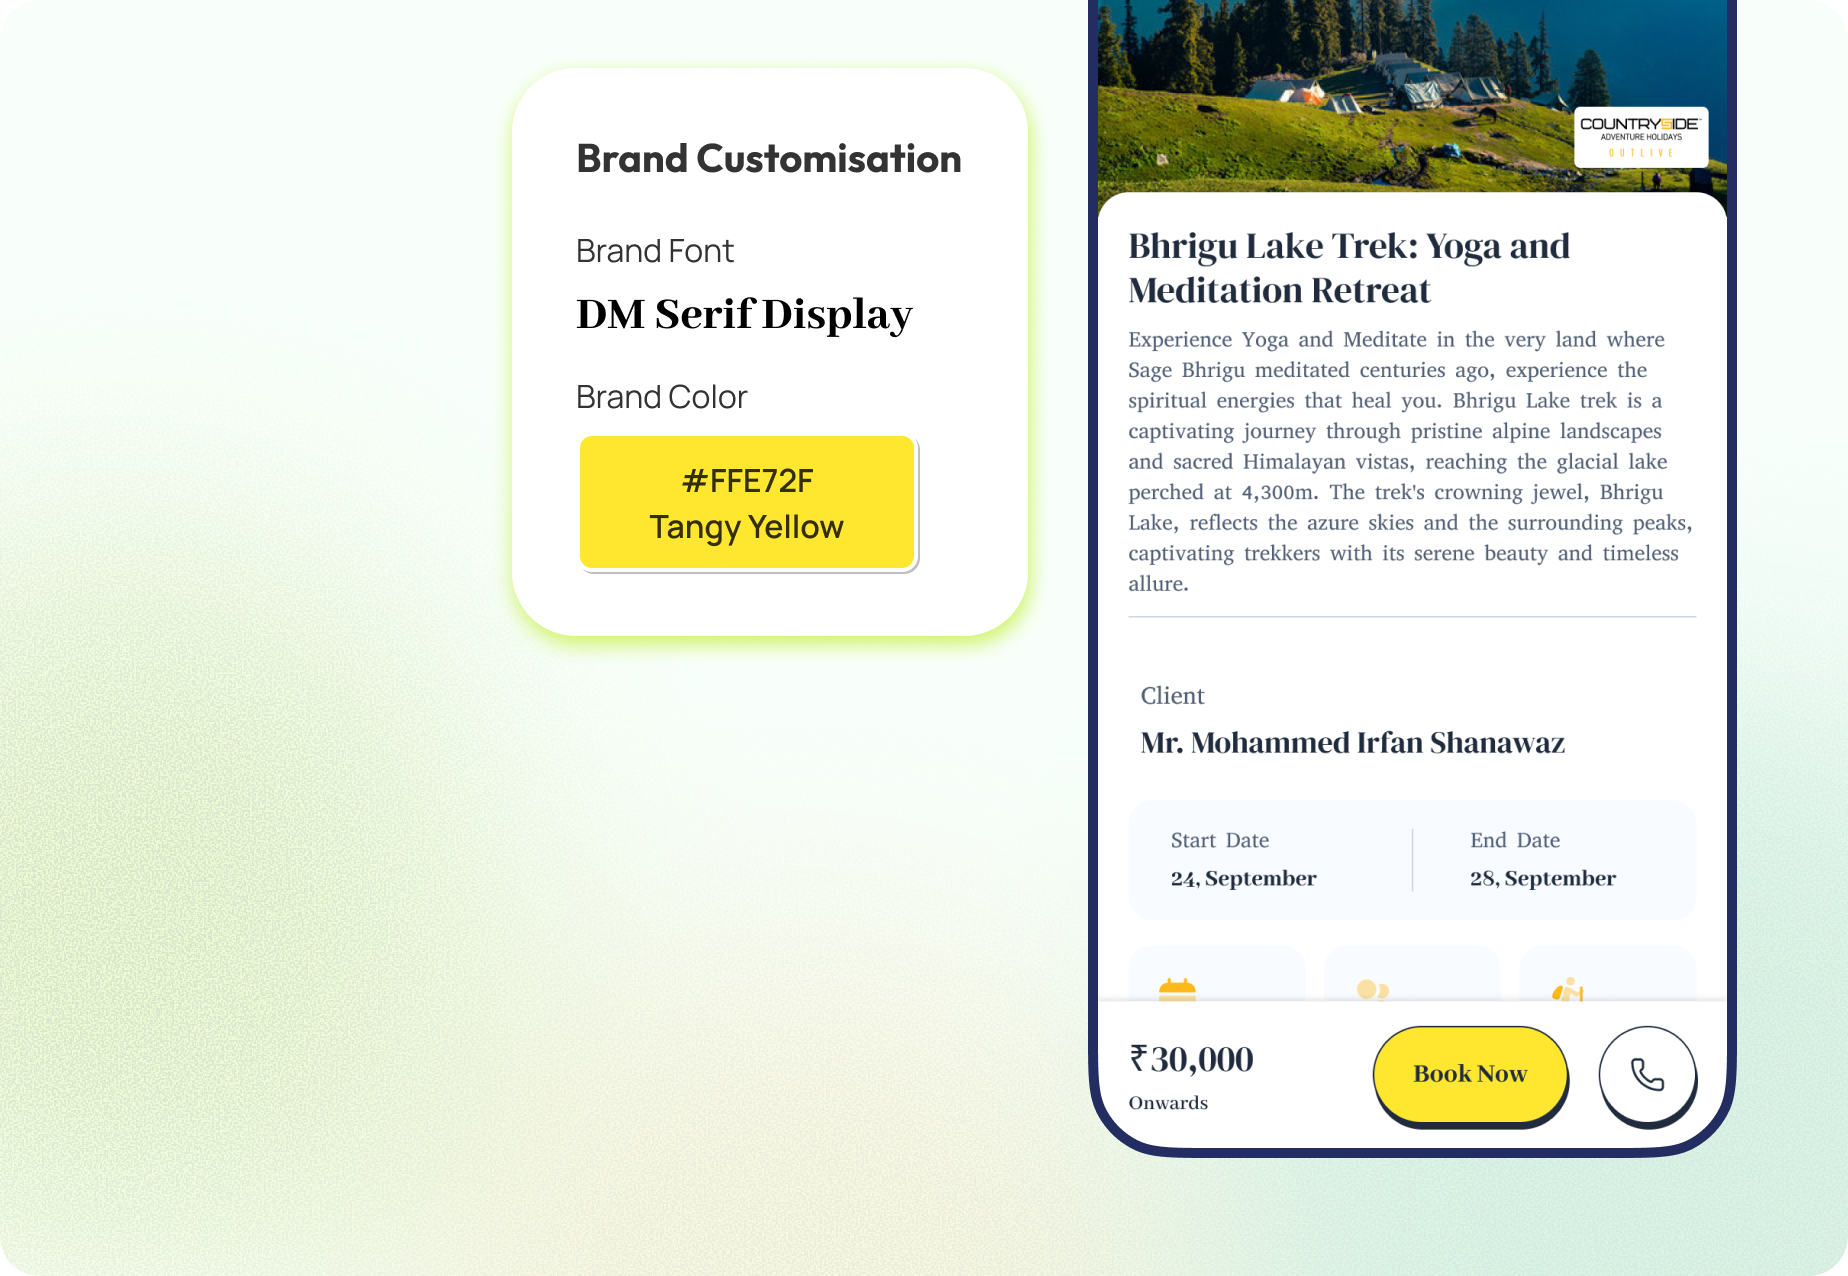
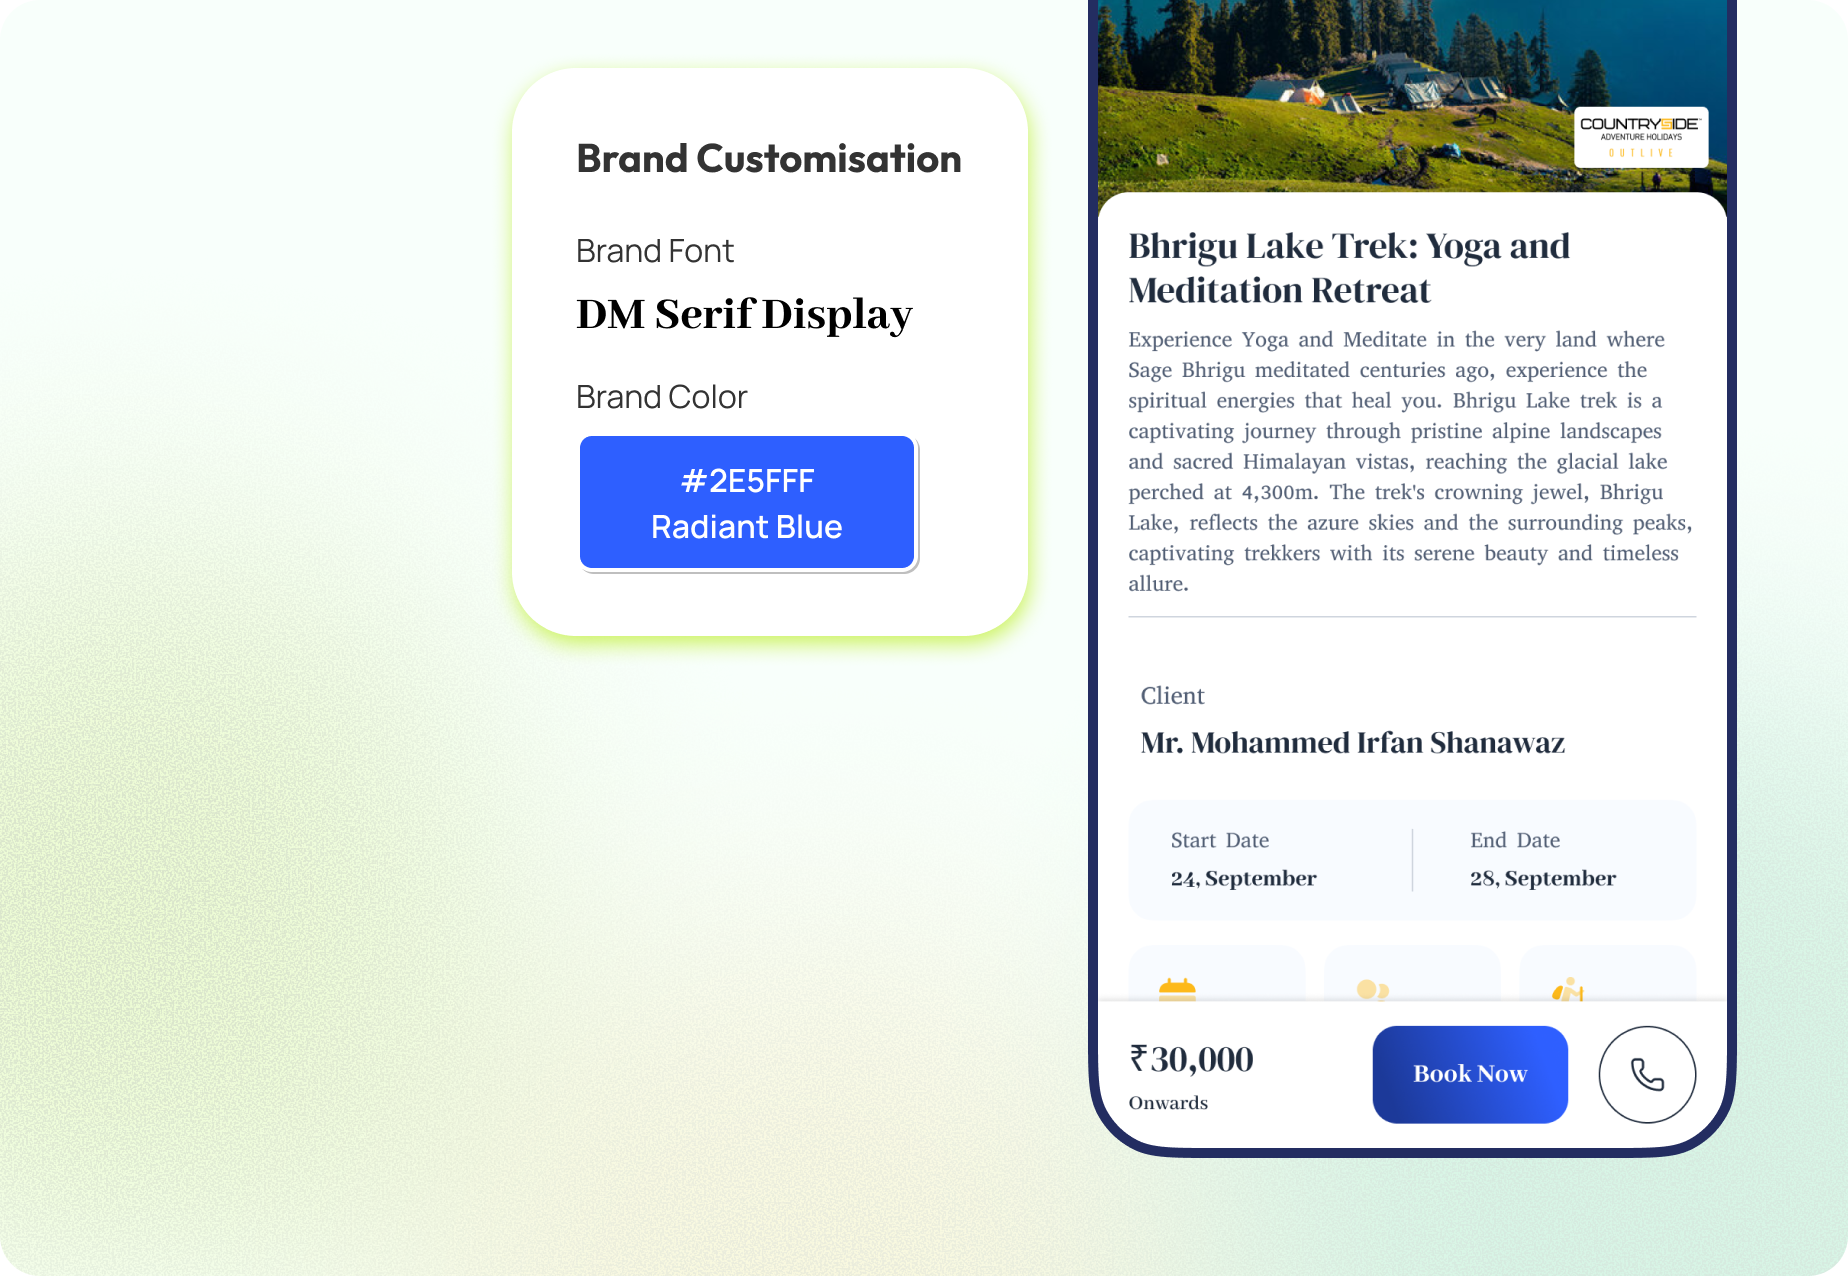
Update responsive landing sections

Changed region(s): [[0.3084, 0.3362, 0.4935, 0.4585], [0.7403, 0.7947, 0.9253, 0.8864]]

diff --git a/components/landing/prompt-demo-section.tsx b/components/landing/prompt-demo-section.tsx
@@ -1,8 +1,7 @@
 "use client";
 
-import { FileText, Globe, Mic, Zap } from "lucide-react";
+import { Mic } from "lucide-react";
 import Image from "next/image";
-import type { ComponentType } from "react";
 import { useEffect, useRef, useState } from "react";
 import { cn } from "@/lib/utils";
 
@@ -11,11 +10,9 @@ const PROMPT_TEXT =
 
 const TYPE_INTERVAL_MS = 30;
 const GENERATING_DURATION_MS = 4200;
-const LINK_PREVIEW_URL = "https://tours.outist.app/s/qaWXDawni?v=04Us-";
-const PDF_PREVIEW_URL = "";
+const LINK_PREVIEW_URL = "https://tours.outist.app/s/qaWXDawni?v=Cy0GN";
 
 type DemoPhase = "idle" | "recording" | "generating" | "complete";
-type OutputType = "link" | "pdf";
 
 export function PromptDemoSection() {
   const sectionRef = useRef<HTMLElement | null>(null);
@@ -203,99 +200,17 @@ function StatusText({ phase }: { phase: DemoPhase }) {
 }
 
 function GeneratedProposalFrame() {
-  const [outputType, setOutputType] = useState<OutputType>("link");
-  const isPdf = outputType === "pdf";
-  const previewUrl = isPdf ? PDF_PREVIEW_URL : LINK_PREVIEW_URL;
-
   return (
     <div className="flex w-full flex-col items-start gap-[25px]">
-      <div className="flex w-full flex-col gap-4 md:flex-row md:items-center md:justify-between">
-        <div className="flex w-full min-w-0 items-center gap-2 text-sherpa-ink md:w-[262px]">
-          <Zap aria-hidden="true" className="size-5 fill-[#16c9e8] text-[#16c9e8]" strokeWidth={2.5} />
-          <p className="text-[16px] font-normal leading-[1.45] sm:text-[17px]">
-            Generated in less than a min
-          </p>
-        </div>
-
-        <div className="flex flex-wrap items-center gap-4 pb-2 pr-3 md:gap-6 md:pr-4">
-          <SegmentedControl
-            items={[
-              { icon: Globe, label: "Link", value: "link", active: outputType === "link" },
-              { icon: FileText, label: "PDF", value: "pdf", active: outputType === "pdf" },
-            ]}
-            onSelect={(value) => setOutputType(value as OutputType)}
+      <div className="flex h-[460px] w-full items-center justify-center rounded-[20px] border border-[#cfd5de] bg-[#f0f3f7] px-3 py-3 sm:h-[520px] sm:px-4 lg:h-[638px]">
+        <div className="relative h-full w-full overflow-hidden rounded-[16px] bg-white shadow-[0_1px_0_rgba(32,44,61,0.05)] transition-all duration-500 ease-sherpa">
+          <iframe
+            title="Generated proposal link preview"
+            src={LINK_PREVIEW_URL}
+            className="h-full w-full border-0 bg-white"
           />
         </div>
       </div>
-
-      <div className="flex h-[460px] w-full items-center justify-center rounded-[20px] border border-[#cfd5de] bg-[#f0f3f7] px-3 py-3 sm:h-[520px] sm:px-4 lg:h-[638px]">
-        <div className="relative h-full w-full overflow-hidden rounded-[16px] bg-white shadow-[0_1px_0_rgba(32,44,61,0.05)] transition-all duration-500 ease-sherpa">
-          {previewUrl ? (
-            <iframe
-              key={outputType}
-              title={isPdf ? "Generated proposal PDF" : "Generated proposal link preview"}
-              src={previewUrl}
-              className="h-full w-full border-0 bg-white"
-            />
-          ) : (
-            <div className="flex h-full w-full items-center justify-center">
-              <p className="text-center text-base font-medium leading-[1.25] text-black">
-                {isPdf ? "PDF preview link pending" : "iframe"}
-              </p>
-            </div>
-          )}
-        </div>
-      </div>
-    </div>
-  );
-}
-
-type SegmentItem = {
-  active: boolean;
-  icon: ComponentType<{ className?: string; strokeWidth?: number; "aria-hidden"?: boolean }>;
-  label: string;
-  value: string;
-};
-
-function SegmentedControl({
-  disabled = false,
-  items,
-  onSelect,
-}: {
-  disabled?: boolean;
-  items: SegmentItem[];
-  onSelect: (value: string) => void;
-}) {
-  return (
-    <div
-      className={cn(
-        "flex shrink-0 items-center rounded-sherpa-pill border border-sherpa-ink bg-white p-1 shadow-[1px_2px_0_#202c3d] transition-opacity duration-medium",
-        disabled && "pointer-events-none opacity-40",
-      )}
-      aria-disabled={disabled}
-    >
-      {items.map((item, index) => {
-        const Icon = item.icon;
-
-        return (
-          <button
-            type="button"
-            key={item.label}
-            onClick={() => onSelect(item.value)}
-            aria-pressed={item.active}
-            disabled={disabled}
-            className={cn(
-              "flex items-center justify-center gap-2 px-4 py-3 text-[14px] font-medium leading-[1.45] transition-colors duration-fast focus-visible:outline-none focus-visible:ring-2 focus-visible:ring-sherpa-ink/25",
-              item.active ? "bg-[#dfe3e8] text-sherpa-ink" : "text-sherpa-muted",
-              index === 0 && "rounded-bl-sherpa-pill rounded-br-[4px] rounded-tl-sherpa-pill rounded-tr-[4px]",
-              index === items.length - 1 && "rounded-bl-[4px] rounded-br-sherpa-pill rounded-tl-[4px] rounded-tr-sherpa-pill",
-            )}
-          >
-            <Icon aria-hidden className="size-5" strokeWidth={2} />
-            <span className="truncate">{item.label}</span>
-          </button>
-        );
-      })}
     </div>
   );
 }

diff --git a/components/landing/footer-section.tsx b/components/landing/footer-section.tsx
@@ -66,34 +66,37 @@ export function FooterSection() {
           </div>
         </div>
 
-        <div className="flex w-full max-w-[1011px] flex-col items-center justify-center border-t border-white/20 pt-12 sm:pt-[60px]">
-          <div className="flex flex-col items-center justify-center gap-6 sm:flex-row">
+        <div className="flex w-full max-w-[1011px] flex-col gap-10 border-t border-white/20 pt-12 sm:pt-[60px] lg:flex-row lg:items-center lg:justify-between">
+          <div className="flex flex-col items-center justify-center gap-6 sm:flex-row lg:justify-start">
             <img
               src="/assets/footer-outist-logo-white.svg"
               alt="The Outist"
-              className="h-[46px] w-[210px] object-contain sm:h-[52px] sm:w-[239px]"
+              className="h-[46px] w-[150px] object-contain sm:h-[52px] sm:w-[171px]"
             />
-            <div className="relative h-[94px] w-[112px] overflow-hidden rounded-[16px] sm:h-[104px] sm:w-[124px]">
+            <span aria-hidden="true" className="hidden h-[41px] w-px bg-white/28 sm:block" />
+            <div className="relative h-[64px] w-[76px] overflow-hidden rounded-[10px]">
               <Image
                 src="/assets/footer-affiliation.png"
                 alt="Adventure Tour Operators Association of India Allied"
                 fill
-                sizes="124px"
+                sizes="76px"
                 className="object-cover"
               />
             </div>
           </div>
-        </div>
 
-        <div className="flex w-full flex-col items-center gap-10">
-          <img
-            src="/assets/footer-outist-wordmark.svg"
-            alt="The Outist"
-            className="h-[90px] w-full max-w-[913px] object-contain sm:h-[150px] lg:h-[200px]"
-          />
-          <p className="text-center text-[14px] font-normal leading-[1.45]">
-            © 2026, Outist Experiences Pvt. Ltd.
-          </p>
+          <div className="flex flex-col items-center justify-center gap-4 text-[14px] font-normal leading-[1.45] text-white sm:flex-row sm:gap-8">
+            <a
+              href="#"
+              className="transition-colors hover:text-white/75 focus-visible:outline-none focus-visible:ring-2 focus-visible:ring-white/35"
+            >
+              Terms and Conditions
+            </a>
+            <span aria-hidden="true" className="hidden h-4 w-px bg-white/25 sm:block" />
+            <p className="text-center text-white/60">
+              © 2026, Outist Experiences Pvt. Ltd.
+            </p>
+          </div>
         </div>
       </div>
     </footer>

diff --git a/components/landing/site-header.tsx b/components/landing/site-header.tsx
@@ -61,6 +61,12 @@ export function SiteHeader() {
             </OutistButton>
           </div>
 
+          <div className="ml-auto flex items-center gap-3 lg:hidden">
+            <OutistButton asChild className="min-h-11 px-5 text-[15px]">
+              <a href="#try">Try</a>
+            </OutistButton>
+          </div>
+
           <Sheet>
             <SheetTrigger asChild>
               <button
@@ -73,7 +79,8 @@ export function SiteHeader() {
             </SheetTrigger>
             <SheetContent
               side="right"
-              className="border-sherpa-ink/10 bg-white p-0 text-sherpa-ink"
+              className="border-sherpa-ink/10 bg-white p-0 text-sherpa-ink backdrop-blur-none"
+              style={{ background: "#ffffff", backdropFilter: "none" }}
             >
               <SheetHeader className="border-sherpa-ink/10 bg-white p-6">
                 <SheetTitle className="text-[20px] font-medium text-sherpa-ink">
@@ -93,11 +100,6 @@ export function SiteHeader() {
                 ))}
               </div>
               <div className="mt-auto flex flex-col gap-4 border-t border-sherpa-ink/10 p-6">
-                <SheetClose asChild>
-                  <OutistButton asChild className="w-full">
-                    <a href="#try">Try for Free</a>
-                  </OutistButton>
-                </SheetClose>
                 <SheetClose asChild>
                   <OutistButton asChild variant="secondary" className="w-full">
                     <button type="button" onClick={openDemoModal}>

diff --git a/components/landing/powerful-features-section.tsx b/components/landing/powerful-features-section.tsx
@@ -13,7 +13,6 @@ type FeatureSlide = {
   icon: ComponentType<{ className?: string; strokeWidth?: number; "aria-hidden"?: boolean }>;
   imageAlt: string;
   imageSrc: string;
-  overlayLabel?: string;
   title: string;
 };
 
@@ -44,7 +43,6 @@ const FEATURES: FeatureSlide[] = [
     imageAlt: "Customize proposal branding, font, and colors",
     accent: "text-[#337dff]",
     cardPosition: "lg:left-[-117px] lg:top-[43%]",
-    overlayLabel: "Your Brand Guidelines",
   },
   {
     title: "Plan smarter. Price better.",
@@ -53,7 +51,7 @@ const FEATURES: FeatureSlide[] = [
     imageSrc: "/assets/brainstorm.png",
     imageAlt: "Brainstorm trip ideas and calculate proposal pricing",
     accent: "text-[#18b9e5]",
-    cardPosition: "lg:right-[-112px] lg:top-[35%]",
+    cardPosition: "lg:right-[-240px] lg:top-[35%]",
   },
   {
     title: "Sell globally, personalize locally",
@@ -183,11 +181,6 @@ function FeatureSlideView({
             className="object-cover"
             priority={slideNumber === 1}
           />
-          {slide.overlayLabel ? (
-            <div className="absolute left-[22%] top-[12%] hidden rounded-[20px] bg-white px-8 py-5 text-[28px] font-medium leading-[1.15] text-[#2f2f2f] shadow-[0_0_26px_rgba(204,243,95,0.55)] md:block">
-              {slide.overlayLabel}
-            </div>
-          ) : null}
         </div>
 
         <div

diff --git a/components/landing/trial-section.tsx b/components/landing/trial-section.tsx
@@ -347,13 +347,11 @@ export function TrialSection() {
               </div>
 
               <div className="flex flex-col items-end gap-2 lg:h-[148px] lg:flex-1 lg:justify-center">
-                <div className="relative mt-0 flex h-[38px] min-w-[120px] items-center justify-center rounded-[6px] bg-black px-5 text-[16px] font-normal leading-[1.58] text-white sm:h-[64px] sm:min-w-[240px] sm:rounded-[14px] sm:px-7 sm:text-[22px] lg:h-[76px] lg:min-w-[403px] lg:text-[29px]">
-                  <span
-                    aria-hidden="true"
-                    className="absolute -left-3 top-1/2 h-6 w-6 -translate-y-1/2 rotate-45 bg-black sm:-left-5 sm:h-10 sm:w-10"
-                  />
-                  <span className="relative z-10 font-mono">100 Slots Available</span>
-                </div>
+                <img
+                  src="/assets/trial-slots-tag.svg"
+                  alt="100 Slots Available"
+                  className="h-[38px] w-[202px] max-w-[46vw] sm:h-[64px] sm:w-[339px] lg:h-[76px] lg:w-[403px]"
+                />
                 <p className="hidden w-full max-w-[361px] text-left text-[20px] font-normal leading-[2] text-black sm:block lg:text-[24px]">
                   on a first-come first-serve basis.
                 </p>
